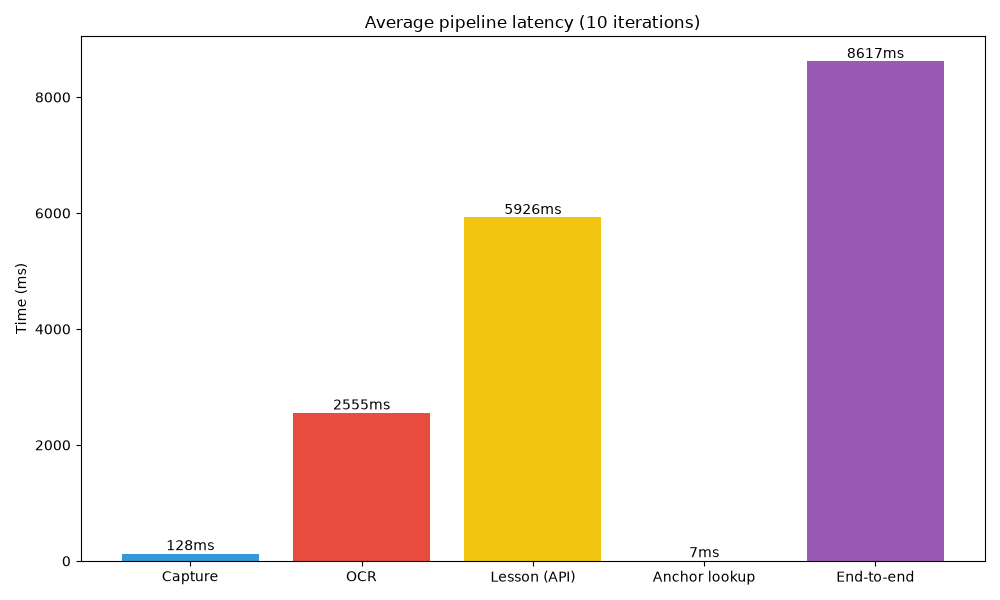
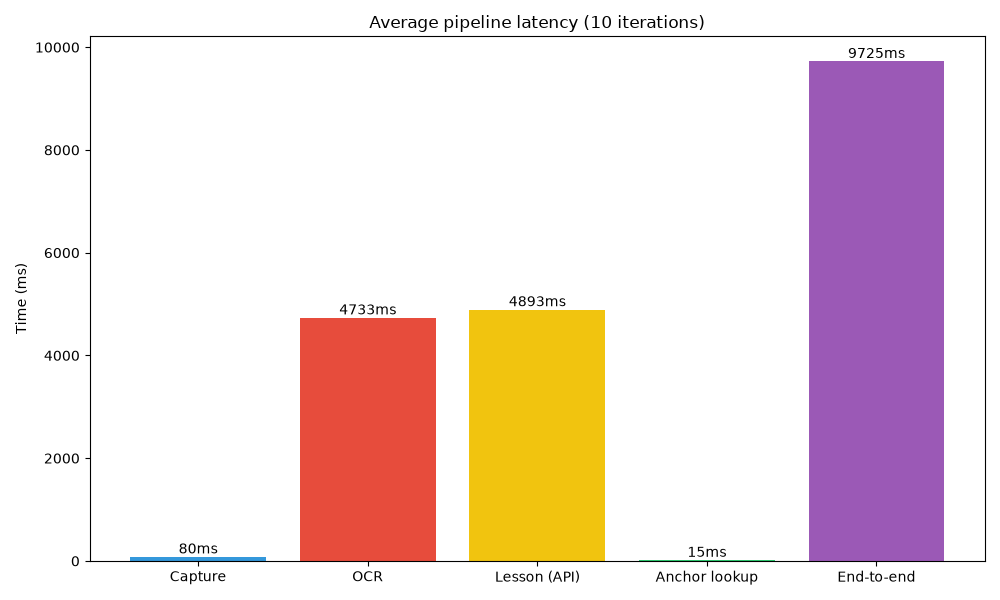
test: record the SDK in benchmark results and re-measure both sections
The results file could hold two sections measured on different SDKs with
nothing but timestamps to say so, because the environment block recorded
the model, Python and Qt but not the client library. Latency depends on
the client, and this project has already changed clients once.

The environment now records the SDK and the Tesseract version, so a reader
can tell what produced a number without cross-referencing the git log.

Both sections re-measured on google-genai 2.17.0 / Tesseract 5.4.0 so the
whole artifact is internally consistent:

    accuracy    33/33 anchors over 8 images
    latency     9.73s mean end-to-end, n=10

Latency rose from 8.62s on the previous run. The split moved rather than
the total: OCR went from 2.6s to 4.7s and the API leg fell from 5.9s to
4.9s. Both runs capture whatever is on screen, so a denser screen means
more OCR work and a longer prompt. The figure is only meaningful alongside
the environment it was taken in, which is the reason for this commit.

diff --git a/tools/benchmark.py b/tools/benchmark.py
@@ -36,6 +36,7 @@ from pathlib import Path
 sys.path.insert(0, str(Path(__file__).resolve().parent.parent))
 
 import numpy as np  # noqa: E402
+import pytesseract  # noqa: E402
 
 from src.capture import ScreenCapture  # noqa: E402
 from src.console import configure_stdio  # noqa: E402
@@ -58,13 +59,29 @@ CORPUS_GLOBS = ("demo/*/screenshot.png", "tests/*/*.png")
 
 
 def environment() -> dict:
-    """Records the conditions a result was measured under."""
+    """Records the conditions a result was measured under.
+
+    The SDK is included because latency depends on it and this project has
+    already changed clients once. Without it, two sections of the same results
+    file can come from different SDKs with nothing but timestamps to say so.
+    """
     try:
         from PyQt6.QtCore import QT_VERSION_STR
     except Exception:
         QT_VERSION_STR = "unavailable"
 
     import os
+    from importlib.metadata import PackageNotFoundError, version
+
+    try:
+        sdk = f"google-genai {version('google-genai')}"
+    except PackageNotFoundError:
+        sdk = "google-genai (version unavailable)"
+
+    try:
+        tesseract = str(pytesseract.get_tesseract_version())
+    except Exception:
+        tesseract = "unavailable"
 
     return {
         "timestamp_utc": datetime.now(UTC).isoformat(timespec="seconds"),
@@ -73,6 +90,8 @@ def environment() -> dict:
         "python": platform.python_version(),
         "qt": QT_VERSION_STR,
         "qt_platform": os.environ.get("QT_QPA_PLATFORM", "default"),
+        "sdk": sdk,
+        "tesseract": tesseract,
         "model": MODEL_NAME,
     }
 
